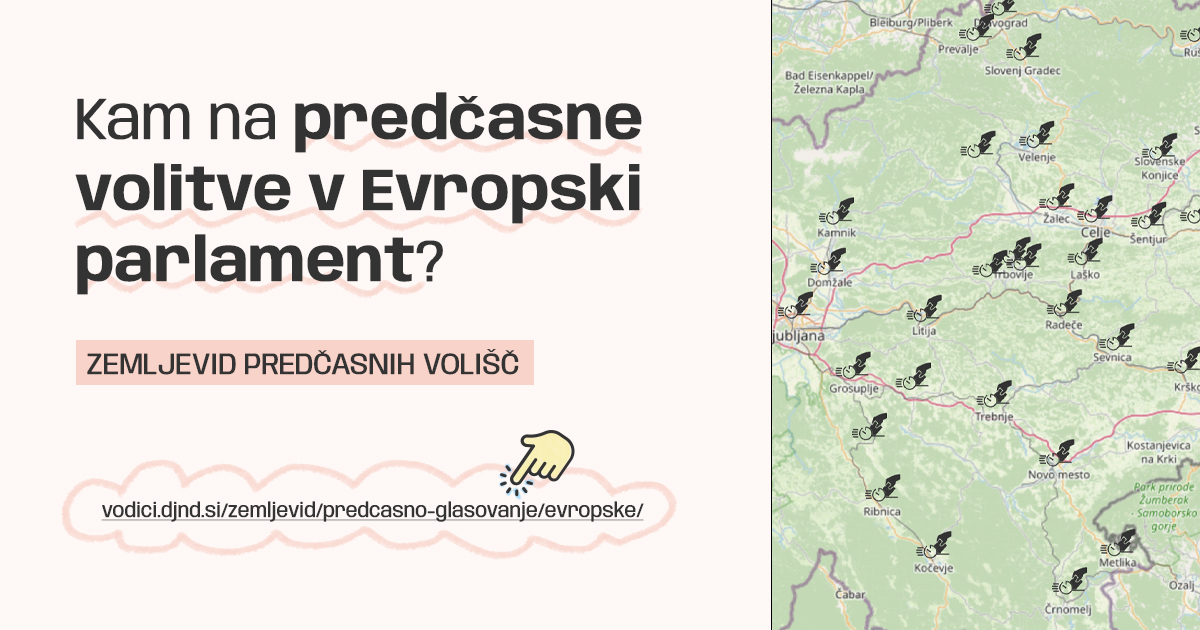
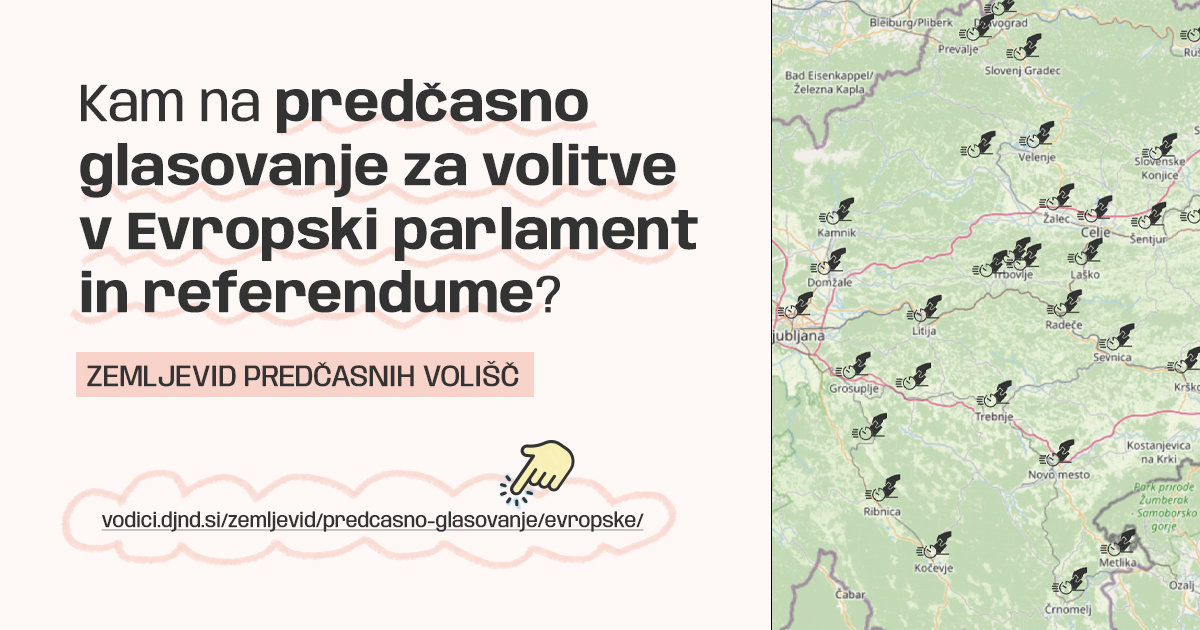
changes

Changed region(s): [[0.0617, 0.1206, 0.5858, 0.6333], [0.0308, 0.6635, 0.5858, 0.9048]]

diff --git a/index.html b/index.html
@@ -42,7 +42,7 @@
     </div>
     <div class=zavesa>
       <div class=stepone>
-        <h1>Če te na dan volitev v Evropski parlament ne bo doma, lahko predčasno glasuješ v torek, 4., sredo, 5., in četrtek, 6. junija.</h1>
+        <h1>Če te na dan volitev v Evropski parlament ali referendumov ne bo doma, lahko predčasno glasuješ v torek, 4., sredo, 5., in četrtek, 6. junija.</h1>
         <p>Postopek za to je čisto preprost – vse, kar moraš storiti, je, da se (brez predhodne najave) oglasiš na volišču, ki ga je v tvojem okraju določila volilna komisija. Najdeš ga lahko s pomočjo spodnjega zemljevida.</p>
         <div class=button> Poišči sebi najbližje volišče! </div>
         <div class=social>
